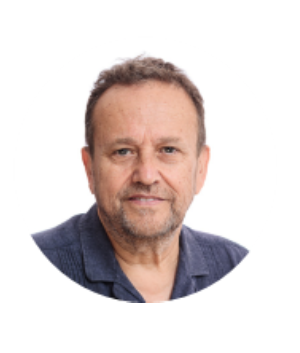
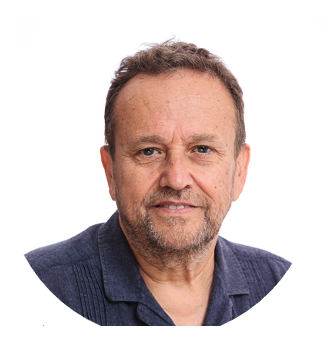
update photos

Changed region(s): [[0.06, 0.0935, 0.87, 0.9037]]

diff --git a/README.md b/README.md
@@ -57,49 +57,58 @@
 
 > ## **Comité organizador**:
 >
-> Laura Torres Collado - [l.torres@umh.es](mailto:l.torres@umh.es)
->
-> Alejandro Oncina Canovas - [aoncina@umh.es](mailto:aoncina@umh.es)
 
+><div style="overflow: hidden;">
+><img src="Photo Laura Torr.png" style="zoom:40%; float: left; margin-right: 10px;" />
+><p>Laura Torres Collado - <a href="mailto:l.torres@umh.es">l.torres@umh.es</a>. XXXXXXXX</p>
+></div>
 
-
-
+><div style="overflow: hidden;">
+><img src="Photo Alex.png" style="zoom:40%; float: left; margin-right: 10px;" />
+><p>Alejandro Oncina Canovas - <a href="mailto:aoncina@umh.es">aoncina@umh.es</a>. XXXXXXXX</p>
+></div>
 
 ><div style="overflow: hidden;">
 ><img src="Photo toni signes.png" style="zoom:40%; float: left; margin-right: 10px;" />
 ><p>Antonio José Signes Pastor - <a href="mailto:asignes@umh.es">asignes@umh.es</a>. Investigador CIDEGENT. Experto en Contaminantes y Elementos traza</p>
 ></div>
 
-
-
-
-
 > Carolina Ojeda Belokon - [cojeda@umh.es](mailto:cojeda@umh.es)
 >
-> Laura Maria Compañ Gabucio - [lcompan@umh.es](mailto:lcompan@umh.es)
->
-> Manuela Garcia De La Hera - [manoli@umh.es](mailto:manoli@umh.es)
->
-> Dianan Mancheño Bañon - [dmancheno@umh.es](mailto:dmancheno@umh.es)
 
+><div style="overflow: hidden;">
+><img src="Photo Laura Comp.png" style="zoom:40%; float: left; margin-right: 10px;" />
+><p>Laura Maria Compañ Gabucio - <a href="mailto:lcompan@umh.es">lcompan@umh.es</a>. XXXXXXXX</p>
+></div>
 
+><div style="overflow: hidden;">
+><img src="Photo Manoli.png" style="zoom:40%; float: left; margin-right: 10px;" />
+><p>Manuela Garcia De La Hera - <a href="mailto:manoli@umh.es">manoli@umh.es</a>. XXXXXXXX</p>
+></div>
 
-
+><div style="overflow: hidden;">
+><img src="Photo Diana.png" style="zoom:40%; float: left; margin-right: 10px;" />
+><p>Diana Mancheño Bañon - <a href="mailto:dmancheno@umh.es">dmancheno@umh.es</a>. XXXXXXXX</p>
+></div>
 
 ><div style="overflow: hidden;">
 ><img src="Photo Jesus Vioque.png" style="zoom:40%; float: left; margin-right: 10px;" />
 ><p>Jesús Vioque López - <a href="mailto:vioque@umh.es">vioque@umh.es</a>. Catedrático. Médico y Experto en Epidemiología de la Nutrición</p>
 ></div>
 
+><div style="overflow: hidden;">
+><img src="Photo Mari Carmen.png" style="zoom:40%; float: left; margin-right: 10px;" />
+><p>Maria Del Carmen Esquiva Antolino - <a href="mailto:mesquiva@umh.es">mesquiva@umh.es</a>. XXXXXXXX</p>
+></div>
 
 
 
+><div style="overflow: hidden;">
+><img src="Photo Sandra.png" style="zoom:40%; float: left; margin-right: 10px;" />
+><p>Sandra Gonzalez Palacios - <a href="mailto:sandra.gonzalezp@umh.es">sandra.gonzalezp@umh.es</a>. XXXXXXXX</p>
+></div>
 
 
-
-> Maria Del Carmen Esquiva Antolino - [mesquiva@umh.es](mailto:mesquiva@umh.es)
->
-> Sandra Gonzalez Palacios - [sandra.gonzalezp@umh.es](mailto:sandra.gonzalezp@umh.es)
 
 <img src="Tap.png" style="zoom:80%;" />
 
